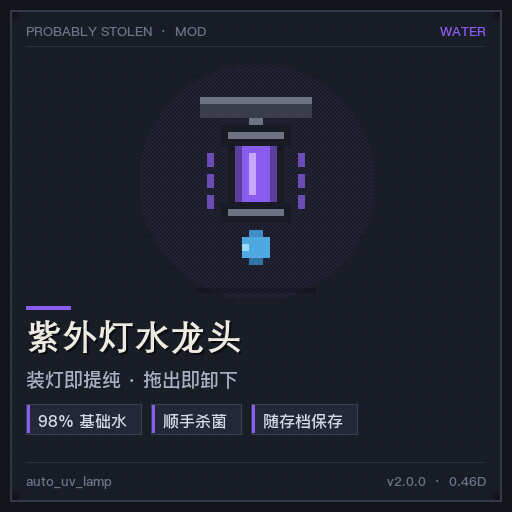
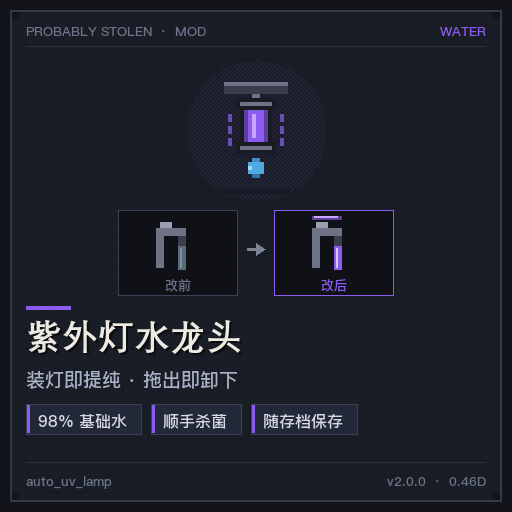
feat(previews): 四张预览图改为「主图标 + 改前/改后对比条」版式
缩略图在工坊列表里通常只有 200px 宽，原来的大图标只能表达「这是什么物件」，
说不清「装上之后变了什么」。新版式上半仍是主体物件（缩放相应缩小），
下半左右各一格对比：

- auto_uv_lamp        灰水龙头 + 灰水流  →  装上紫灯 + 紫水流
- storage_bay_label   无标签存储舱      →  箱面出现纸质标签
- machine_power_layout 电芯散放          →  电芯紧邻并被点亮
- module_solo_upgrade 模组词条栏空白    →  琥珀色自学习进度条

实现：make-previews.py 增加 layout="compare" 分支、draw_strip() 与四组
mini_* 图标（同 32px 网格、最近邻放大 2 倍）。左格灰描边、右格用强调色描边，
中间加箭头；格子底色压暗以与面板拉开层次。

四张预览图已更新，Release 安装包重打并覆盖上传（SHA-256 同步刷新），
工坊包与 VDF 的 previewfile 指向新图。

Changed region(s): [[0.2812, 0.1562, 0.75, 0.5938]]

diff --git a/tools/make-previews.py b/tools/make-previews.py
@@ -103,21 +103,26 @@ def draw_uv_lamp():
     return i
 
 
-def draw_label_crate():
-    """Storage crate with a paper tag on its front."""
+def draw_label_crate(has_label=True):
+    """Storage crate with (or without) a paper tag on its front."""
     i = Icon()
     i.frame(4, 8, 24, 20, GREY_D)
     # lid
     i.r(5, 9, 22, 3, GREY_M)
     i.r(5, 9, 22, 1, GREY_L)
-    # tag
-    i.r(9, 14, 14, 9, INK)
-    i.r(10, 15, 12, 7, BEIGE)
-    i.r(11, 16, 6, 1, GREY_M)
-    i.r(11, 18, 9, 1, GREY_M)
-    i.r(11, 20, 5, 1, GREY_M)
-    # tag string to the lid
-    i.r(15, 12, 1, 2, BEIGE_L)
+    if has_label:
+        # tag
+        i.r(9, 14, 14, 9, INK)
+        i.r(10, 15, 12, 7, BEIGE)
+        i.r(11, 16, 6, 1, GREY_M)
+        i.r(11, 18, 9, 1, GREY_M)
+        i.r(11, 20, 5, 1, GREY_M)
+        # tag string to the lid
+        i.r(15, 12, 1, 2, BEIGE_L)
+    else:
+        # bare front panel with a recessed handle
+        i.r(9, 15, 14, 8, (0x32, 0x36, 0x42))
+        i.r(13, 18, 6, 2, INK)
     # feet + side handle
     i.r(6, 28, 4, 2, GREY_M)
     i.r(22, 28, 4, 2, GREY_M)
@@ -194,6 +199,58 @@ def draw_chip_icon():
     return i
 
 
+# ---------------------------------------------------------------- before / after pairs
+# Each pair is drawn on the same grid as the hero icon, then rendered small.
+def mini_tap(stage):
+    """stage 0: plain tap with grey water. stage 1: UV tube fitted, violet water."""
+    i = Icon()
+    # side-on wall tap: vertical pipe, arm, spout, handle
+    i.r(5, 7, 4, 20, GREY_M)
+    i.r(9, 7, 11, 4, GREY_M)
+    i.r(16, 11, 4, 5, GREY_D)
+    i.r(7, 4, 6, 3, GREY_L)
+    if stage:
+        # UV tube clipped above the body
+        i.r(5, 1, 15, 2, (0x5B, 0x3F, 0x9C))
+        i.r(6, 1, 12, 1, (0xC9, 0xA6, 0xFF))
+        i.r(16, 16, 4, 12, (0x8B, 0x5C, 0xF0))
+        i.r(17, 17, 1, 10, (0xD9, 0xC2, 0xFF))
+    else:
+        i.r(16, 16, 4, 12, (0x59, 0x6A, 0x78))
+        i.r(17, 17, 1, 10, (0x7E, 0x91, 0xA0))
+    return i
+
+
+def mini_crate(stage):
+    return draw_label_crate(has_label=bool(stage))
+
+
+def mini_layout(stage):
+    """stage 0: cells scattered. stage 1: cells packed together and lit."""
+    i = Icon()
+    cells = [(7, 9), (15, 9), (7, 17), (15, 17)] if stage else [(5, 7), (21, 7), (5, 21), (21, 23)]
+    for x, y in cells:
+        i.frame(x, y, 9, 9, (0x2B, 0x2F, 0x3C))
+        i.r(x + 2, y + 2, 5, 5, (0xF0, 0xB4, 0x55) if stage else (0x5B, 0x60, 0x70))
+    if stage:
+        i.r(16, 12, 2, 2, (0xF0, 0xB4, 0x55))
+        i.r(16, 20, 2, 2, (0xF0, 0xB4, 0x55))
+    return i
+
+
+def mini_module(stage):
+    """stage 0: blank module. stage 1: self-learning bar filled."""
+    i = Icon()
+    i.frame(6, 9, 20, 14, (0x2B, 0x2F, 0x3C))
+    i.r(8, 12, 16, 3, INK)
+    i.r(9, 13, 3 if stage else 2, 1, (0x6D, 0xE3, 0xCC) if stage else (0x45, 0xA8, 0x98))
+    i.r(8, 17, 16, 4, (0x3A, 0x3F, 0x50))
+    if stage:
+        i.r(9, 18, 13, 2, (0xE0, 0xA2, 0x4C))
+        i.r(9, 18, 7, 2, (0xF3, 0xC0, 0x72))
+    return i
+
+
 # ---------------------------------------------------------------- composition
 def dither_burst(base, cx, cy, radius, colour, alpha=26, step=4):
     """Chequered halo: a soft glow that still reads as pixels, not a gradient."""
@@ -226,9 +283,35 @@ def text_shadow(d, xy, s, font, fill, shadow=SHADOW, off=2):
     d.text(xy, s, font=font, fill=fill + (255,))
 
 
+def draw_strip(img, d, accent, before, after, labels=("改前", "改后")):
+    """Two small cells with an arrow between: what the mod changes, at a glance."""
+    cell_w, cell_h, y = 120, 86, 210
+    gap = 36
+    total = cell_w * 2 + gap
+    x0 = (SIZE - total) // 2
+    xs = (x0, x0 + cell_w + gap)
+    f_lab = ImageFont.truetype(FONT_REG, 13)
+    for idx, (x, icon_factory) in enumerate(zip(xs, (before, after))):
+        live = idx == 1
+        d.rectangle([x, y, x + cell_w - 1, y + cell_h - 1], fill=(0x0F, 0x11, 0x16, 255),
+                    outline=(accent if live else (0x3A, 0x42, 0x56)) + (255,), width=1)
+        art = icon_factory().render(2)
+        img.alpha_composite(art, (x + (cell_w - art.width) // 2, y + 4))
+        col = accent if live else (0x6C, 0x74, 0x88)
+        w = d.textlength(labels[idx], font=f_lab)
+        d.text((x + (cell_w - w) / 2, y + 66), labels[idx], font=f_lab, fill=col + (255,))
+    ax0 = xs[0] + cell_w + 9
+    ax1 = xs[1] - 9
+    ay = y + cell_h // 2 - 4
+    d.line([(ax0, ay), (ax1 - 8, ay)], fill=(0x7C, 0x84, 0x98, 255), width=3)
+    d.polygon([(ax1, ay), (ax1 - 9, ay - 6), (ax1 - 9, ay + 6)],
+              fill=(0x7C, 0x84, 0x98, 255))
+
+
 def build(mod, out_path):
     cfg = CONFIG[mod]
     accent = cfg["accent"]
+    compare = cfg.get("layout") == "compare"
     img = Image.new("RGBA", (SIZE, SIZE), BG + (255,))
     d = ImageDraw.Draw(img)
 
@@ -255,12 +338,17 @@ def build(mod, out_path):
            cfg["tag"], font=f_small, fill=accent + (255,))
     d.line([(26, 46), (SIZE - 27, 46)], fill=(0x2A, 0x30, 0x3E, 255))
 
-    # hero
+    # hero: smaller when the before/after strip needs the room
     sprite = cfg["sprite"]()
-    k = cfg["scale"]
+    if compare:
+        k = max(2, min(cfg["scale"], 152 // cfg.get("grid_h", 32)))
+        zone_top, zone_h = 54, 152
+    else:
+        k = cfg["scale"]
+        zone_top, zone_h = 56, 250
     hero = sprite.render(k)
     hx = (SIZE - hero.width) // 2 + cfg.get("dx", 0)
-    hy = 56 + (250 - hero.height) // 2 + cfg.get("dy", 0)
+    hy = zone_top + (zone_h - hero.height) // 2 + cfg.get("dy", 0)
     dither_burst(img, hx + hero.width // 2, hy + hero.height // 2,
                  max(hero.width, hero.height) // 2 + 6, accent, cfg.get("glow", 20), step=2)
     # contact shadow: a short, low-contrast band right under the sprite
@@ -270,10 +358,12 @@ def build(mod, out_path):
     img.alpha_composite(sh, (hx + (hero.width - sw) // 2, hy + hero.height - 5))
     img.alpha_composite(hero, (hx, hy))
 
-    # optional side icons
-    extras = {"chip": draw_chip_icon, "grid": draw_grid_card}
-    for key, px_, py_, kk in cfg.get("extras", []):
-        img.alpha_composite(extras[key]().render(kk), (px_, py_))
+    if compare:
+        draw_strip(img, d, accent, cfg["before"], cfg["after"])
+    else:
+        extras = {"chip": draw_chip_icon, "grid": draw_grid_card}
+        for key, px_, py_, kk in cfg.get("extras", []):
+            img.alpha_composite(extras[key]().render(kk), (px_, py_))
 
     # title block
     f_title = ImageFont.truetype(FONT_BOLD, 36)
@@ -312,25 +402,32 @@ CONFIG = {
         title="紫外灯水龙头", sub="装灯即提纯 · 拖出即卸下",
         chips=["98% 基础水", "顺手杀菌", "随存档保存"],
         tag="WATER", id="auto_uv_lamp", ver="2.0.0",
+        layout="compare", grid_h=32,
+        before=lambda: mini_tap(0), after=lambda: mini_tap(1),
     ),
     "storage_bay_label": dict(
         sprite=draw_label_crate, scale=7, dx=0, dy=0, accent=(0xE2, 0xC0, 0x76), glow=18,
         title="存储舱标签", sub="给任意容器加一行自己的文字",
         chips=["右键打标签", "悬停 + 角标", "三套外观"],
         tag="LABEL", id="storage_bay_label", ver="1.7.1",
+        layout="compare", grid_h=32,
+        before=lambda: mini_crate(0), after=lambda: mini_crate(1),
     ),
     "machine_power_layout": dict(
-        sprite=draw_power_array, scale=7, dx=-58, dy=0, accent=(0xF0, 0xB4, 0x55), glow=20,
+        sprite=draw_power_array, scale=7, dx=0, dy=0, accent=(0xF0, 0xB4, 0x55), glow=20,
         title="机器区供电布局", sub="一键把能量阵列搬到最优相邻位",
         chips=["相邻覆盖最大", "夜间回电", "可整体重排"],
         tag="POWER", id="machine_power_layout", ver="3.1.0",
-        extras=[("grid", 318, 121, 5)],
+        layout="compare", grid_h=32,
+        before=lambda: mini_layout(0), after=lambda: mini_layout(1),
     ),
     "module_solo_upgrade": dict(
         sprite=draw_programmer, scale=7, dx=0, dy=0, accent=(0x6D, 0xE3, 0xCC), glow=20,
         title="模组独自升级", sub="耗电为模组植入自学习词条",
         chips=["自学习进度", "电池供电", "博士处出售"],
         tag="DEVICE", id="module_solo_upgrade", ver="3.5.0",
+        layout="compare", grid_h=48,
+        before=lambda: mini_module(0), after=lambda: mini_module(1),
     ),
 }
 

diff --git a/WORKSHOP.md b/WORKSHOP.md
@@ -63,13 +63,16 @@ workshop\auto_uv_lamp.vdf     ← 描述文件，路径已填好
 
 ### 预览图
 
-四个模组各有一张 **512×512** 的 `preview.png`（29–32 KB），像素风、与游戏 UI 同配色，
+四个模组各有一张 **512×512** 的 `preview.png`（约 30–33 KB），像素风、与游戏 UI 同配色，
 由 `tools/make-previews.py` 生成，改了文案或配色可重新跑：
 
 ```powershell
 python tools\make-previews.py            # 四个全出
 python tools\make-previews.py auto_uv_lamp
 ```
+
+版式为「主图标 + 改前 / 改后对比条」：上半是放大的主体物件，下半左右各一格，
+左灰右亮、中间箭头，让缩略图在小尺寸下也能表达"装上之后变了什么"，而不只是"这是什么"。
 
 脚本用 `DengXian Bold` / `SimHei` 渲染中文标题——**不要改用 `msyhbd.ttc`**：
 Pillow 在这里会错解它的 cmap，把「灯/水/标」等常用字渲染成 `.notdef` 乱码。
